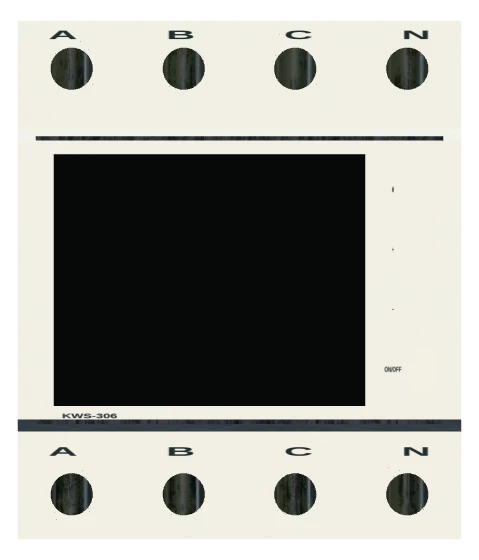
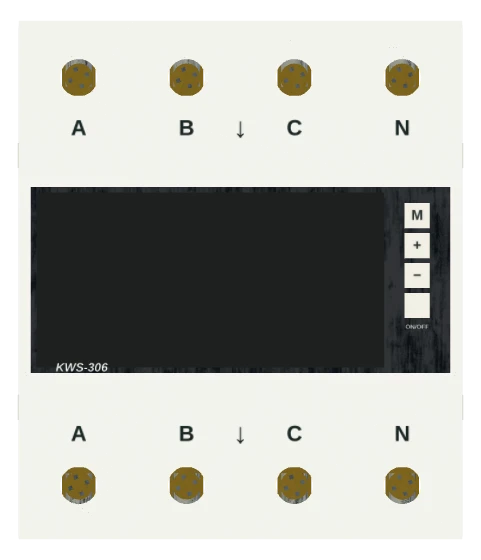
Medidores: LCD do D52 visível e trifásico KWS-306 no mesmo acabamento
O pedido vinha de duas capturas no telemóvel: o trifásico não se
parecia com o monofásico e o LCD do monofásico estava branco.

Causa do LCD branco: o `applyRenderMode` do painel trata qualquer
`MeshStandardMaterial` como superfície física e força `opacity = 1` e
`transparent = false`, salvo se o material tiver `userData.keepTransparent`.
O vidro do visor não tinha essa marca e ficava uma placa branca opaca
por cima do ecrã — o canvas sempre esteve certo.

- digitalMeterModel: vidro do visor com `keepTransparent` (D52 e KWS);
  KWS-306 refeito no vocabulário do D52 — corpo perfilado com degraus de
  borne a 43 mm, tampa frontal boleada, aro preto + ecrã + vidro,
  parafusos de latão captivos em gaiola com poço de chave pela frente,
  serigrafia A/B/C/N nos dois degraus com seta de sentido de corrente,
  «KWS-306» no filete do visor e coluna de quatro teclas M/+/−/ON-OFF.
- Cotas dos bornes alinhadas nas três fontes: boca do túnel a 37 mm da
  traseira (corpo 65 mm) e passo real de 18 mm — realInterfaces,
  factory (z 0,5692) e legacyRealInterfaces.
- Pilha frontal recuada para dentro dos 65 mm nominais, para o GLB
  continuar a medir 74,3 × 86,5 × 65,9 mm.
- Capas 3/4 e vistas frontais dos dois medidores regeneradas do modelo
  final (build-component-covers.mjs --only).

typecheck limpo; test:ci:fast 16/19, iguais falhas pré-existentes;
builtin-sync 975 OK; meters-schneider, cover-version e as 8 suites do
protocolo PASS.

diff --git a/src/three/digitalMeterModel.ts b/src/three/digitalMeterModel.ts
@@ -93,7 +93,12 @@ export function createDigitalMeterObject(type:DigitalMeterType,state:Record<stri
     const WX=-2,WY=44.6
     box(44,36.6,.3,material('#15181a'),'digital_meter_lcd_recess',[WX,WY,64.05])
     plane(41.6,34.2,new THREE.MeshBasicMaterial({color:'#090c0b'}),'digital_meter_lcd',[WX,WY,64.22])
-    const glass=plane(44,36.6,new THREE.MeshStandardMaterial({color:'#ffffff',transparent:true,opacity:.1,roughness:.06,metalness:.1,depthWrite:false}),'digital_meter_glass',[WX,WY,64.32])
+    /* Vidro do visor. Sem `keepTransparent`, o `applyRenderMode` do painel trata qualquer
+     * `MeshStandardMaterial` como superfície física e força `opacity = 1` / `transparent =
+     * false`: o vidro ficava uma placa branca opaca sobre o ecrã e lia-se «LCD branco». */
+    const glassMaterial=new THREE.MeshStandardMaterial({color:'#ffffff',transparent:true,opacity:.1,roughness:.06,metalness:.1,depthWrite:false})
+    glassMaterial.userData.keepTransparent=true
+    const glass=plane(44,36.6,glassMaterial,'digital_meter_glass',[WX,WY,64.32])
     glass.raycast=()=>{};glass.userData.protectionMarking=false
     button(22.7,46,64.2,1.95,'digital_meter_reset',blue)
     // Janelas das patilhas e junta base/tampa nas duas laterais.
@@ -122,23 +127,73 @@ export function createDigitalMeterObject(type:DigitalMeterType,state:Record<stri
     silk('RESET',22.7,43.2,64.08,.75,'digital_meter_reset_label',{weight:700})
     for(const y of [18,61]){box(11,2,2,shell,'digital_meter_din_clip_bar',[0,y,1]);for(const x of [-4,4])box(1.4,6,1.8,shell,'digital_meter_din_clip_arm',[x,y+2,1])}
   }else{
-    const body=profileBody(74,[[0,0],[43,0],[43,18],[65,20],[65,66.5],[43,68.5],[43,86.5],[0,86.5],[0,61],[7.5,61],[7.5,25],[0,25]],[],white);body.name='digital_meter_body';root.add(body)
-    box(68,48,1,dark,'digital_meter_frame',[0,43.25,64.45])
-    // Photographed LCD is ~1.48:1, not the almost-square full fascia.
-    plane(52,35.1,new THREE.MeshBasicMaterial({color:'#090c0b'}),'digital_meter_lcd',[-5,44.2,65.01])
-    for(const [i,label]of ['M','+','−','ON/OFF'].entries()){
-      const y=58.25-i*10,name=i===3?'digital_meter_switch':i===0?'digital_meter_menu':`digital_meter_menu_${i}`
-      box(3.7,7,1.2,i===3?material('#e8e8db'):white,name,[30.7,y,64.5]);marking(label,25.6,y,65.13,i===3?6:3.3,2.3,'digital_meter_button_ink')
+    /* KWS-306 trifásico (4 módulos DIN, 74 × 86,5 × 65 mm). Mesmo acabamento do D52:
+     * corpo marfim com degraus de borne, tampa frontal boleada, vidro sobre o LCD e
+     * parafusos de latão captivos em gaiola. Cotas da vista frontal do produto:
+     * degraus dos bornes a 43 mm, tampa 43…65 mm, janela preta do LCD e coluna de
+     * quatro teclas à direita. Serigrafia A/B/C/N junto aos bornes e seta de sentido
+     * de corrente, como no aparelho real. */
+    const SH=43 // face dos degraus (bornes), medida a partir da parede traseira
+    const shell=material('#e7e9e4'),bezelM=material('#f0f1ed'),brass=new THREE.MeshStandardMaterial({color:'#c9a85c',metalness:.85,roughness:.32})
+    shell.roughness=.62;bezelM.roughness=.5
+    const body=profileBody(74,[[0,0],[SH,0],[SH,25],[65,25],[65,61.5],[SH,61.5],[SH,86.5],[0,86.5],[0,61],[7.5,61],[7.5,25],[0,25]],[],shell);body.name='digital_meter_body';root.add(body)
+    // Tampa frontal com arestas boleadas, igual à do D52.
+    const bezelShape=new THREE.Shape(),bw=71,bh=33,br=1.8
+    bezelShape.moveTo(-bw/2+br,-bh/2);bezelShape.lineTo(bw/2-br,-bh/2);bezelShape.quadraticCurveTo(bw/2,-bh/2,bw/2,-bh/2+br);bezelShape.lineTo(bw/2,bh/2-br);bezelShape.quadraticCurveTo(bw/2,bh/2,bw/2-br,bh/2)
+    bezelShape.lineTo(-bw/2+br,bh/2);bezelShape.quadraticCurveTo(-bw/2,bh/2,-bw/2,bh/2-br);bezelShape.lineTo(-bw/2,-bh/2+br)
+    bezelShape.quadraticCurveTo(-bw/2,-bh/2,-bw/2+br,-bh/2)
+    mesh(new THREE.ExtrudeGeometry(bezelShape,{depth:1.4,bevelEnabled:true,bevelThickness:.6,bevelSize:.6,bevelSegments:3,curveSegments:8}),bezelM,'digital_meter_frame',[0,43.25,63.0])
+    // Janela do LCD: aro preto + ecrã + vidro (o vidro mantém-se transparente no painel).
+    const WY=43.25
+    box(70,31,.3,material('#15181a'),'digital_meter_lcd_recess',[0,WY,65.05])
+    plane(58,29.2,new THREE.MeshBasicMaterial({color:'#090c0b'}),'digital_meter_lcd',[-5,WY,65.22])
+    const glassMaterial=new THREE.MeshStandardMaterial({color:'#ffffff',transparent:true,opacity:.1,roughness:.06,metalness:.1,depthWrite:false})
+    glassMaterial.userData.keepTransparent=true
+    const glass=plane(58,29.2,glassMaterial,'digital_meter_glass',[-5,WY,65.32])
+    glass.raycast=()=>{};glass.userData.protectionMarking=false
+    // Junta base/tampa e janelas das patilhas DIN nas laterais.
+    const shade=material('#b9bcb5'),seam=material('#cbcec7')
+    for(const sx of [-1,1]){
+      for(const y of [22,64])box(.3,4.2,2.2,shade,'digital_meter_latch_window',[sx*37.02,y,21])
+      box(.06,85.4,.22,seam,'digital_meter_mold_seam',[sx*37.03,43,16.5])
     }
-    for(const [i,x]of [-28,-9.3,9.3,28].entries()){
-      bore(body,['L1-IN','L2-IN','L3-IN','N-IN'][i],[x,86.5,30],'y',[0,1,0],3.7,12)
-      bore(body,['L1-OUT','L2-OUT','L3-OUT','N-OUT'][i],[x,0,30],'y',[0,-1,0],3.7,12)
-      bore(body,'screwdriver_top_'+i,[x,78.5,43],'z',[0,0,1],3.5,11)
-      bore(body,'screwdriver_bottom_'+i,[x,7.5,43],'z',[0,0,1],3.5,11)
+    /* Teclas: coluna de quatro pastilhas à direita da janela, como no produto. A de baixo
+     * é ON/OFF (texto serigrafado ao lado); as restantes são M, + e −. */
+    /* Quatro pastilhas separadas (não uma barra contínua), como no produto. */
+    const KEY_X=29.5
+    const keys=[['digital_meter_menu',KEY_X,54],['digital_meter_menu_1',KEY_X,49],['digital_meter_menu_2',KEY_X,44],['digital_meter_switch',KEY_X,39]] as const
+    for(const [name,kx,ky] of keys){
+      box(4.2,4.2,1.2,white,name,[kx,ky,65.3])
+      if(name==='digital_meter_switch')continue
+      silk(name==='digital_meter_menu'?'M':name==='digital_meter_menu_1'?'+':'−',kx,ky,65.92,1.7,'digital_meter_button_ink_'+name,{weight:800})
     }
-    marking('A        B        C        N',0,84,43.02,65,4,'digital_meter_input_marking')
-    marking('A        B        C        N',0,14.5,43.02,65,4,'digital_meter_output_marking')
-    marking('KWS-306',-25,20.5,65.14,17,2.1,'digital_meter_type')
+    silk('ON/OFF',KEY_X,35.4,65.9,.75,'digital_meter_switch_label',{weight:700,color:'#c8cdc9'})
+    const terminal=(label:string,x:number,top:boolean)=>{
+      const yWell=top?77:9,yFace=top?86.5:0,n=top?1:-1
+      // Entrada do cabo atrás da cabeça do parafuso (gaiola), poço da chave pela frente.
+      bore(body,label,[x,yFace,37],'y',[0,n,0],2.6,11,false,'#7d8079')
+      bore(body,'screwdriver_'+label,[x,yWell,SH],'z',[0,0,1],3.1,6.6,false,'#a3a69f')
+      const screw=buildCaptiveTerminalScrew('kws_'+label,2.36)
+      screw.traverse(o=>{const m=o as THREE.Mesh;if(m.isMesh&&o.name.startsWith('terminal_screw_head_')){(m.material as THREE.Material).dispose();m.material=brass}})
+      screw.position.set(x,yWell,SH-2.7);root.add(screw)
+      const shank=new THREE.CylinderGeometry(1.15,1.15,6.4,20);shank.rotateX(Math.PI/2)
+      mesh(shank,brass,'digital_meter_screw_shank_'+label,[x,yWell,SH-6.4])
+      box(5.6,6,3.4,brass,'digital_meter_clamp_'+label,[x,yWell,36.6])
+    }
+    /* Serigrafia de fábrica: A B C N nos degraus de cima e de baixo e a seta de
+     * sentido da corrente entre os dois bornes do meio. */
+    const PHASES=['A','B','C','N'] as const
+    for(const [i,x] of [-27,-9,9,27].entries()){
+      terminal(PHASES[i]+'-IN',x,true)
+      terminal(PHASES[i]+'-OUT',x,false)
+      // Nos degraus de borne: em cima y 61,5…86,5 e em baixo y 0…25 (não é Z!).
+      silk(PHASES[i],x,68.5,SH+.03,2.6,'digital_meter_input_marking_'+PHASES[i],{weight:800,color:'#2f3534'})
+      silk(PHASES[i],x,17.5,SH+.03,2.6,'digital_meter_output_marking_'+PHASES[i],{weight:800,color:'#2f3534'})
+    }
+    silk('↓',0,68.5,SH+.03,3.4,'digital_meter_flow_arrow_top',{weight:800,color:'#2f3534'})
+    silk('↓',0,17.5,SH+.03,3.4,'digital_meter_flow_arrow_bottom',{weight:800,color:'#2f3534'})
+    silk('KWS-306',-26.5,28.6,65.26,1.45,'digital_meter_type',{italic:true,weight:800,color:'#d7dbd6'})
+    for(const y of [22,60]){box(16,2,2,shell,'digital_meter_din_clip_bar',[0,y,1]);for(const x of [-6,6])box(1.4,6,1.8,shell,'digital_meter_din_clip_arm',[x,y+2,1])}
   }
   root.traverse(n=>{if(n instanceof THREE.Mesh){n.geometry.scale(U,U,U);n.position.multiplyScalar(U);n.castShadow=n.receiveShadow=true;n.userData.digitalMeterPart=n.name}else if(n!==root)n.position.multiplyScalar(U)})
   applyDigitalMeterState(root,type,state);return root

diff --git a/src/electrical/factory.ts b/src/electrical/factory.ts
@@ -1286,35 +1286,35 @@ export const TEMPLATES: Record<ComponentType, ComponentTemplate> = {
     terminals: [
       T('L1-IN', 'power-in', 0.15, 0.08, {
         displayName: 'A (L1) · Entrada de rede', color: '#171717', terminalType: 'screw',
-        position3D: { x: 0.15, y: 0.88, z: 0.65 },
+        position3D: { x: 0.1351, y: 0.88, z: 0.5692 },
       }),
       T('L2-IN', 'power-in', 0.38, 0.08, {
         displayName: 'B (L2) · Entrada de rede', color: '#8b4513', terminalType: 'screw',
-        position3D: { x: 0.38, y: 0.88, z: 0.65 },
+        position3D: { x: 0.3784, y: 0.88, z: 0.5692 },
       }),
       T('L3-IN', 'power-in', 0.62, 0.08, {
         displayName: 'C (L3) · Entrada de rede', color: '#6b7280', terminalType: 'screw',
-        position3D: { x: 0.62, y: 0.88, z: 0.65 },
+        position3D: { x: 0.6216, y: 0.88, z: 0.5692 },
       }),
       T('N-IN', 'neutral', 0.85, 0.08, {
         displayName: 'N · Entrada de rede', color: '#2563eb', terminalType: 'screw',
-        position3D: { x: 0.85, y: 0.88, z: 0.65 },
+        position3D: { x: 0.8649, y: 0.88, z: 0.5692 },
       }),
       T('L1-OUT', 'power-out', 0.15, 0.92, {
         displayName: 'A (L1) · Saída para carga', color: '#171717', terminalType: 'screw',
-        position3D: { x: 0.15, y: 0.12, z: 0.65 },
+        position3D: { x: 0.1351, y: 0.12, z: 0.5692 },
       }),
       T('L2-OUT', 'power-out', 0.38, 0.92, {
         displayName: 'B (L2) · Saída para carga', color: '#8b4513', terminalType: 'screw',
-        position3D: { x: 0.38, y: 0.12, z: 0.65 },
+        position3D: { x: 0.3784, y: 0.12, z: 0.5692 },
       }),
       T('L3-OUT', 'power-out', 0.62, 0.92, {
         displayName: 'C (L3) · Saída para carga', color: '#6b7280', terminalType: 'screw',
-        position3D: { x: 0.62, y: 0.12, z: 0.65 },
+        position3D: { x: 0.6216, y: 0.12, z: 0.5692 },
       }),
       T('N-OUT', 'neutral', 0.85, 0.92, {
         displayName: 'N · Saída para carga', color: '#2563eb', terminalType: 'screw',
-        position3D: { x: 0.85, y: 0.12, z: 0.65 },
+        position3D: { x: 0.8649, y: 0.12, z: 0.5692 },
       }),
     ],
     defaultState: { on: false, switchOn: true, vA: 0, vB: 0, vC: 0, iA: 0, iB: 0, iC: 0, pA: 0, pB: 0, pC: 0, energy: 0, frequency: 0, temp: 20, screenMode: 0 },

diff --git a/src/electrical/realInterfaces.ts b/src/electrical/realInterfaces.ts
@@ -231,8 +231,8 @@ export const REAL_TERMINALS: Partial<Record<ComponentType, RealTerminalSpot[]>> 
     {label:'4',face:'top',x:34/54,y:0,z:44/64,diameterMm:4.6,holeDepthMm:10},
   ],
   meterKws306: [
-    ...[-28,-9.3,9.3,28].map((x,i)=>({label:['L1-IN','L2-IN','L3-IN','N-IN'][i],face:'top' as const,x:(x+37)/74,y:0,z:30/65,diameterMm:7.4,holeDepthMm:12})),
-    ...[-28,-9.3,9.3,28].map((x,i)=>({label:['L1-OUT','L2-OUT','L3-OUT','N-OUT'][i],face:'bottom' as const,x:(x+37)/74,y:1,z:30/65,diameterMm:7.4,holeDepthMm:12})),
+    ...[-27,-9,9,27].map((x,i)=>({label:['L1-IN','L2-IN','L3-IN','N-IN'][i],face:'top' as const,x:(x+37)/74,y:0,z:37/65,diameterMm:7.4,holeDepthMm:12})),
+    ...[-27,-9,9,27].map((x,i)=>({label:['L1-OUT','L2-OUT','L3-OUT','N-OUT'][i],face:'bottom' as const,x:(x+37)/74,y:1,z:37/65,diameterMm:7.4,holeDepthMm:12})),
   ],
   breakerSchneiderIc60h1p: [
     {"label":"1","face":"top","x":0.5,"y":0.01545,"z":0.262,"diameterMm":8.7,"holeDepthMm":14.1},

diff --git a/src/electrical/legacyRealInterfaces.ts b/src/electrical/legacyRealInterfaces.ts
@@ -720,7 +720,7 @@ export const LEGACY_REAL_TERMINALS: Partial<Record<ComponentType, RealTerminalSp
 /** Pontos por omissão anteriores às cavidades físicas dos medidores; não são pontos manuais. */
 export const LEGACY_METER_POSITIONS: Record<string, Record<string,{x:number;y:number;z:number}>> = {
  meterD522066: {'1':{x:.28,y:.16,z:.88},'2':{x:.48,y:.16,z:.88},'3':{x:.28,y:.84,z:.88},'4':{x:.48,y:.84,z:.88}},
- meterKws306: Object.fromEntries(['L1','L2','L3','N'].flatMap((label,i)=>[['IN',.88],['OUT',.12]].map(([side,y])=>[label+'-'+side,{x:[.15,.38,.62,.85][i],y:Number(y),z:.65}])))
+ meterKws306: Object.fromEntries(['L1','L2','L3','N'].flatMap((label,i)=>[['IN',.88],['OUT',.12]].map(([side,y])=>[label+'-'+side,{x:[.1351,.3784,.6216,.8649][i],y:Number(y),z:.5692}])))
 }
 export const LEGACY_MODULAR_SIZE: Record<string,{width:number;height:number;depth:number}> = {
  contactorWegCwbc65:{width:57.61,height:159.4,depth:115},
